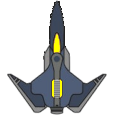
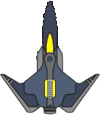
update: project

Changed region(s): [[0.0, 0.0, 1.0, 0.9913], [0.45, 0.6783, 0.48, 0.8609]]

diff --git a/src/draw/drawShip/drawShip.js b/src/draw/drawShip/drawShip.js
@@ -2,7 +2,9 @@ const {
   COMMAND_LEFT,
   COMMAND_RIGHT,
   COMMAND_UP,
-  COMMAND_DOWN
+  COMMAND_DOWN,
+  SHIP_WIDTH,
+  SHIP_HEIGHT
 } = require('../../consts');
 const { toRadians } = require('../../utils');
 const { getEngineState } = require('../../engineState');
@@ -21,10 +23,6 @@ function drawShip () {
 
   const { width, height } = canvasEl;
 
-  const size = 115;
-  const x = (width / 2) - (size / 2);
-  const y = (height / 2) - (size / 2);
-
   const image = new Image();
   image.src = '/images/ship.png';
 
@@ -41,32 +39,32 @@ function drawShip () {
   if (ship.energy > 0 && ship.fuel > 0) {
     if (currentCommand === COMMAND_LEFT) {
       context.fillRect(
-        x + size,
-        y + (size / 2) - (thrusterSize / 2),
+        (width / 2) + (SHIP_HEIGHT / 2),
+        (height / 2) - (thrusterSize / 2),
         thrusterLength,
         thrusterSize
       );
     }
     else if (currentCommand === COMMAND_RIGHT) {
       context.fillRect(
-        x - thrusterLength,
-        y + (size / 2) - (thrusterSize / 2),
+        (width / 2) - (SHIP_HEIGHT / 2) - thrusterLength,
+        (height / 2) - (thrusterSize / 2),
         thrusterLength,
         thrusterSize
       );
     }
     else if (currentCommand === COMMAND_UP) {
       context.fillRect(
-        x + (size / 2) - (thrusterSize / 2),
-        y + size,
+        (width / 2) - (thrusterSize / 2),
+        (height / 2) + (SHIP_HEIGHT / 2),
         thrusterSize,
         thrusterLength
       );
     }
     else if (currentCommand === COMMAND_DOWN) {
       context.fillRect(
-        x + (size / 2) - (thrusterSize / 2),
-        y - thrusterLength,
+        (width / 2) - (thrusterSize / 2),
+        (height / 2) - (SHIP_HEIGHT / 2) - thrusterLength,
         thrusterSize,
         thrusterLength
       );
@@ -77,7 +75,7 @@ function drawShip () {
   context.shadowBlur = 0;
   context.translate(width / 2, height / 2);
   context.rotate(angle);
-  context.drawImage(image, -size / 2, -size / 2, size, size);
+  context.drawImage(image, -SHIP_WIDTH / 2, -SHIP_HEIGHT / 2, SHIP_WIDTH, SHIP_HEIGHT);
   context.translate(-width / 2, -height / 2);
   context.rotate(-angle);
 }

diff --git a/src/draw/drawSpace/drawSpace.js b/src/draw/drawSpace/drawSpace.js
@@ -1,3 +1,4 @@
+const { TILE_WIDTH, TILE_HEIGHT } = require('../../consts');
 const { getEngineState } = require('../../engineState');
 const { getGameState } = require('../../gameState');
 
@@ -7,20 +8,17 @@ function drawSpace () {
 
   const { width, height } = canvasEl;
 
-  const tileWidth = 500;
-  const tileHeight = 500;
-
   const offsetX = ship.x - (width / 2);
   const offsetY = ship.y - (height / 2);
 
   // Create a grif of 8x5 tiles.
   new Array(8).fill(0).forEach((_a, indexW) => {
     new Array(5).fill(0).forEach((_b, indexH) => {
-      const imgX = indexW * tileWidth - offsetX;
-      const imgY = indexH * tileHeight - offsetY;
+      const imgX = indexW * TILE_WIDTH - offsetX;
+      const imgY = indexH * TILE_HEIGHT - offsetY;
 
-      const isOutInW = imgX + tileWidth < 0 || imgX > width;
-      const isOutInH = imgY + tileHeight < 0 || imgY > height;
+      const isOutInW = imgX + TILE_WIDTH < 0 || imgX > width;
+      const isOutInH = imgY + TILE_HEIGHT < 0 || imgY > height;
 
       if (isOutInW || isOutInH) {
         return;
@@ -31,8 +29,8 @@ function drawSpace () {
 
       context.drawImage(
         img,
-        0, 0, tileWidth, tileHeight,
-        imgX, imgY, tileWidth, tileHeight
+        0, 0, TILE_WIDTH, TILE_HEIGHT,
+        imgX, imgY, TILE_WIDTH, TILE_HEIGHT
       );
     });
   });

diff --git a/src/update/updateShip/updateShip.js b/src/update/updateShip/updateShip.js
@@ -2,7 +2,10 @@ const {
   COMMAND_LEFT,
   COMMAND_RIGHT,
   COMMAND_UP,
-  COMMAND_DOWN
+  COMMAND_DOWN,
+  SHIP_FACTOR_MS_PX,
+  SHIP_FACTOR_MS_ENERGY,
+  SHIP_FACTOR_MS_FUEL
 } = require('../../consts');
 const { getEngineState, getLastProgress } = require('../../engineState');
 const { getGameState, updateGameShipState } = require('../../gameState');
@@ -14,9 +17,9 @@ function updateShip () {
 
   const isWorking = !!currentCommand;
 
-  const movementFactor = lastProgress * 0.25;
-  const energyFactor = lastProgress * 0.07;
-  const fuelFactor = lastProgress * 0.01;
+  const movementFactor = lastProgress * SHIP_FACTOR_MS_PX;
+  const energyFactor = lastProgress * SHIP_FACTOR_MS_ENERGY;
+  const fuelFactor = lastProgress * SHIP_FACTOR_MS_FUEL;
 
   let { x, y, energy, fuel, direction } = ship;
 

diff --git a/src/consts.js b/src/consts.js
@@ -3,5 +3,19 @@ module.exports = Object.freeze({
   COMMAND_RIGHT: 'right',
   COMMAND_UP: 'up',
   COMMAND_DOWN: 'down',
-  COMMAND_NONE: ''
+
+  TILE_WIDTH: 500,
+  TILE_HEIGHT: 500,
+
+  SHIP_WIDTH: 100,
+  SHIP_HEIGHT: 115,
+
+  // Milliseconds over pixel factor.
+  SHIP_FACTOR_MS_PX: 0.25,
+
+  // Milliseconds over energy factor.
+  SHIP_FACTOR_MS_ENERGY: 0.07,
+
+  // Milliseconds over fuel factor.
+  SHIP_FACTOR_MS_FUEL: 0.01
 });

diff --git a/src/render/renderStatus/renderStatus.js b/src/render/renderStatus/renderStatus.js
@@ -15,9 +15,16 @@ function renderStatus () {
   const command = currentCommand || 'HOLD';
 
   let status = 'OK';
-  if (ship.energy < 1000) {
+  if (ship.energy === 0) {
+    status = 'NO ENERGY';
+  }
+  else if (ship.energy < 1000) {
     status = 'ENERGY LOW';
-  } else if (ship.fuel < 200) {
+  }
+  else if (ship.fuel === 0) {
+    status = 'NO FUEL';
+  }
+  else if (ship.fuel < 200) {
     status = 'FUEL LOW';
   }
 

diff --git a/src/utils/utils.js b/src/utils/utils.js
@@ -5,8 +5,8 @@ const {
   COMMAND_DOWN
 } = require('../consts');
 
-const compose = (...fns) => x => fns.reduceRight((v, f) => f(v), x);
-const pipe = (...fns) => x => fns.reduce((v, f) => f(v), x);
+const compose = (...fns) => x => fns.reduceRight((v, fn) => fn(v), x);
+const pipe = (...fns) => x => fns.reduce((v, fn) => fn(v), x);
 
 function toRadians (angle) {
   return angle * (Math.PI / 180);

diff --git a/src/gameState/gameState.js b/src/gameState/gameState.js
@@ -4,7 +4,7 @@ let state = Object.freeze({
   ship: {
     x: 2000,
     y: 1250,
-    energy: 3200,
+    energy: 2600,
     fuel: 440,
     direction: COMMAND_UP
   }

diff --git a/README.md b/README.md
@@ -2,6 +2,8 @@
 
 Simple game space simulator.
 
+![Xerox Screenshot](./screenshot.jpg)
+
 ```bash
 $ npm install
 $ npm test
